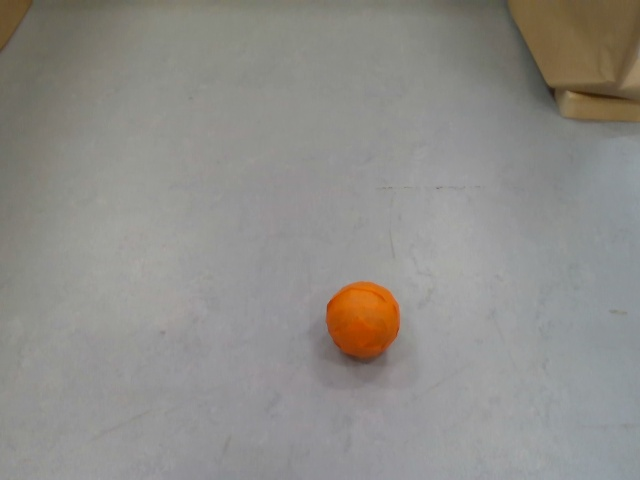
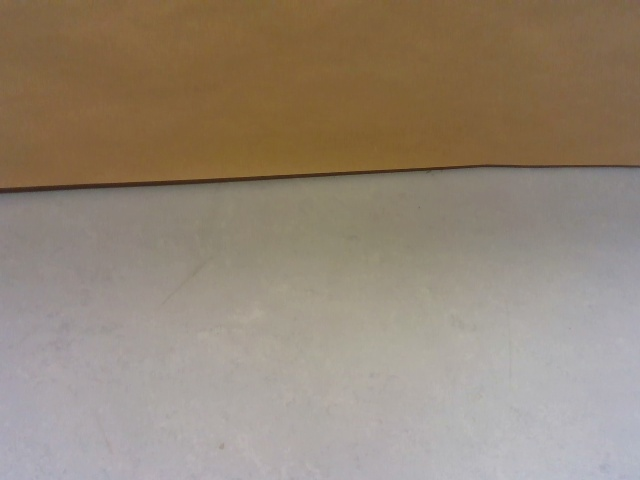
more fiddling with thresholds etc.

diff --git a/scripts/executor/calculator.py b/scripts/executor/calculator.py
@@ -5,14 +5,19 @@ from typing import Union, Tuple
 from visualization_msgs.msg import Marker
 import rospy
 
+
+MIN_CONTOUR_AREA = 500
+
 class ObjectOrientationCalculator:
     def __init__(self):
         self.color_image = None
         self.depth_image = None
         self.robot_position = (0, 0, 0)
-        self.mask_lower_bound: Tuple[int, int, int] = (0, 65, 166)
-        self.mask_upper_bound: Tuple[int, int, int] = (40, 120, 219)
-        self.use_hsv: bool = False
+        self.mask_lower_bound: Tuple[int, int, int] = (5,50,150)
+        self.mask_upper_bound: Tuple[int, int, int] = (15,255,255)
+        self.mask_lower_bound = (5, 50, 50)
+        self.mask_upper_bound = (15, 255, 255)
+        self.use_hsv: bool = True
 
     def get_object_position(self, mask: np.ndarray, depth_image: np.ndarray):
         # Assuming mask is a binary image of the segmented object
@@ -31,28 +36,42 @@ class ObjectOrientationCalculator:
         # print(f"x: {cx}    y: {cy}    z: {z}")
         return (cx, cy, z)
 
-    def refine_mask(self, mask: np.ndarray) -> np.ndarray:
+    def refine_mask(self, mask: np.ndarray, color_image: np.ndarray) -> np.ndarray:
         """
         Filters all contours in the mask to only include the largest contour.
         """
         contours, _ = cv2.findContours(mask, mode=cv2.RETR_EXTERNAL, method=cv2.CHAIN_APPROX_NONE)
+        contours = [c for c in contours if cv2.contourArea(c) >= MIN_CONTOUR_AREA]
+        if len(contours) == 0:
+            return np.zeros_like(mask)
+        print("number of contours:", len(contours))
+        print("Contour areas:")
+        print("\n\t".join([
+            f"{i}: {cv2.contourArea(c)}" for i, c in enumerate(contours)
+        ]))
+        # c = cv2.drawContours(color_image, contours, -1, (0,255,0), 3)
+        # cv2.imwrite("contours.jpg", cv2.cvtColor(c, cv2.COLOR_BGR2HSV))
         largestContour = max(contours, key=cv2.contourArea)
         mask = np.zeros_like(mask)
         cv2.drawContours(mask, [largestContour], 0, (255, 255, 255), cv2.FILLED)
+        m = cv2.bitwise_and(color_image, color_image, mask = mask)
+        m = cv2.drawContours(cv2.cvtColor(m, cv2.COLOR_HSV2BGR), contours, -1, (0,255,0), 3)
+        cv2.imwrite("mask_contours.jpg", m)
+        cv2.imwrite("img.jpg", cv2.cvtColor(color_image, cv2.COLOR_HSV2BGR))
         return mask
 
     def process(self, color_image: Union[np.ndarray, None], depth_image: Union[np.ndarray, None]):
         if color_image is None or depth_image is None:
             return 0, 0, 0
         
-        if self.use_hsv:
-            color_image = cv2.cvtColor(color_image, cv2.COLOR_BGR2HSV)
-
-        # cv2.imwrite("img.jpg", self.color_image)
+        # cv2.imwrite("no_sphero.jpg", color_image)
         
         # np.savetxt("depth.txt", self.depth_image)
 
         # exit()
+        if self.use_hsv:
+            color_image = cv2.cvtColor(color_image, cv2.COLOR_BGR2HSV)
+
   
         # # Segment the object based on its color
         # lower_bound = np.array([255, 77, 0])  # Adjust these values
@@ -60,25 +79,31 @@ class ObjectOrientationCalculator:
         lower_bound = np.array(self.mask_lower_bound)  # Adjust these values
         upper_bound = np.array(self.mask_upper_bound)  # Adjust these values
         mask = cv2.inRange(color_image, lower_bound, upper_bound)
-        mask = self.refine_mask(mask)
-        masked_image = cv2.bitwise_and(color_image, color_image, mask = mask)
-        # combined = np.hstack([color_image, masked_image])
-        if self.use_hsv:
-            masked_image = cv2.cvtColor(masked_image, cv2.COLOR_HSV2BGR)
-            # combined = cv2.cvtColor(combined, cv2.COLOR_HSV2BGR)
+        mask = self.refine_mask(mask, color_image)
         
-        cv2.imwrite("masked.jpg", masked_image)
+        # cv2.imwrite("masked.jpg", masked_image)
         # # cv2.imshow('colored', color_image)
         # # cv2.imshow('masked image', masked_image)
         # cv2.imshow('image', combined)
         if np.count_nonzero(mask) == 0:
             print("Empty mask; Sphero not found")
-            return None
+            return 0, 0, 0, False
+        
+        masked_image = cv2.bitwise_and(color_image, color_image, mask = mask)
+        # combined = np.hstack([color_image, masked_image])
+        if self.use_hsv:
+            masked_image = cv2.cvtColor(masked_image, cv2.COLOR_HSV2BGR)
+            # combined = cv2.cvtColor(combined, cv2.COLOR_HSV2BGR)
 
         object_position = self.get_object_position(mask, depth_image)
         if object_position is None:
-            return 0, 0, 0
+            return 0, 0, 0, False
         # pitch, yaw = self.calculate_relative_orientation(object_position)
         # time.sleep(5)
         # rospy.loginfo(marker_msg)
-        return object_position
+        x, y, z = object_position
+        return x, y, z, True
+    
+
+    #publish message
+    #rostopic list on sphero locator

diff --git a/scripts/executor/locate_sphero.py b/scripts/executor/locate_sphero.py
@@ -72,7 +72,8 @@ class LocobotSpheroLocator:
         return result[2], -result[0], -result[1]
 
     def convert_point_to_real_position(self, point):
-        x, y, depth = point
+        x, y, depth, _= point
+        
         x, y, depth = self.convert_depth_to_phys_coord_using_realsense(x, y, depth)
         transform = self.tf_buffer.lookup_transform("map", "locobot/camera_aligned_depth_to_color_frame", rospy.Time())
 
@@ -80,7 +81,7 @@ class LocobotSpheroLocator:
         point_in_camera = PointStamped()
         # point_in_camera.header = marker_msg.header
         # point_in_camera.point = Point(x=marker_msg.pose.position.x, y=marker_msg.pose.position.y, z=marker_msg.pose.position.z)
-        point_in_camera.point = Point(x=point[0], y=point[1], z=point[2])
+        point_in_camera.point = Point(x=x, y=y, z=depth)
         # point_in_camera.header.frame_id = marker_msg.header.frame_id
 
 
@@ -97,9 +98,9 @@ if __name__ == "__main__":
     start_time = time.time()
     display = False
     calculator = ObjectOrientationCalculator()
-    calculator.mask_lower_bound = (5, 50, 50)
-    calculator.mask_upper_bound = (15, 255, 255)
-    calculator.use_hsv = True
+    # calculator.mask_lower_bound = (5, 50, 50)
+    # calculator.mask_upper_bound = (15, 255, 255)
+    # calculator.use_hsv = True
     while not rospy.is_shutdown():
         if time.time() - start_time > 5:
             display = True
@@ -117,15 +118,27 @@ if __name__ == "__main__":
             )
             print("result:", result)
             if result is not None:
-                x, y, depth = result
+                x, y, depth, found = result
                 # img = cv2.circle(locator.color_image, (x, y), 3, (255,0,0), 4)
                 # cv2.imshow("Sphero location", img)
                 # cv2.waitKey(0)
                 # break
-                point = locator.convert_point_to_real_position(result)
-                print("point:", point)
-                # pitch, yaw = result
                 msg = Tracker()
+
+
+                if found:
+                    point = locator.convert_point_to_real_position(result)
+                    # print("point:", point)
+                    # pitch, yaw = result
+                    msg.x = point.x
+                    msg.y = point.y
+                else:
+                    msg.x = 0.0
+                    msg.y= 0.0
+                
+                msg.found= found
+                
+                # msg.
                 pub.publish(msg)
                 rate.sleep()
     
